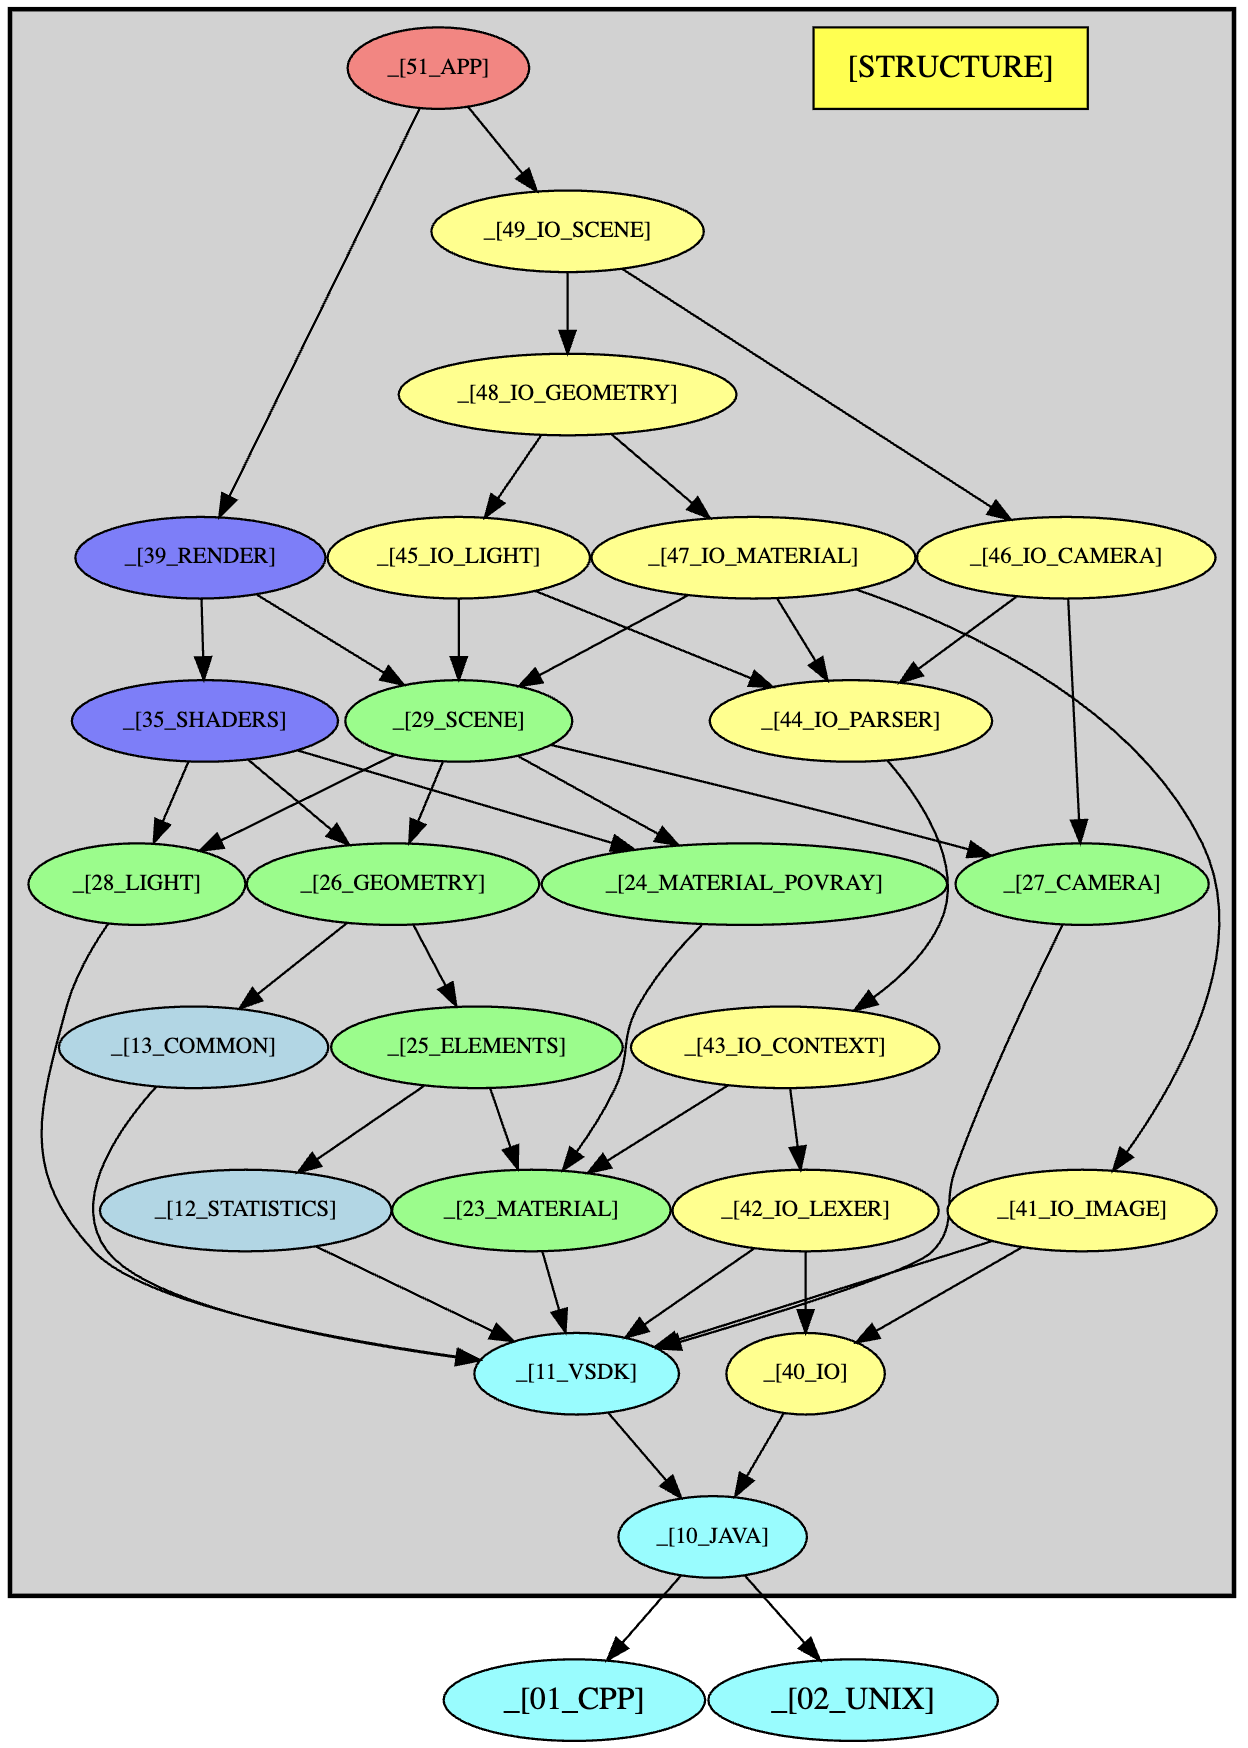
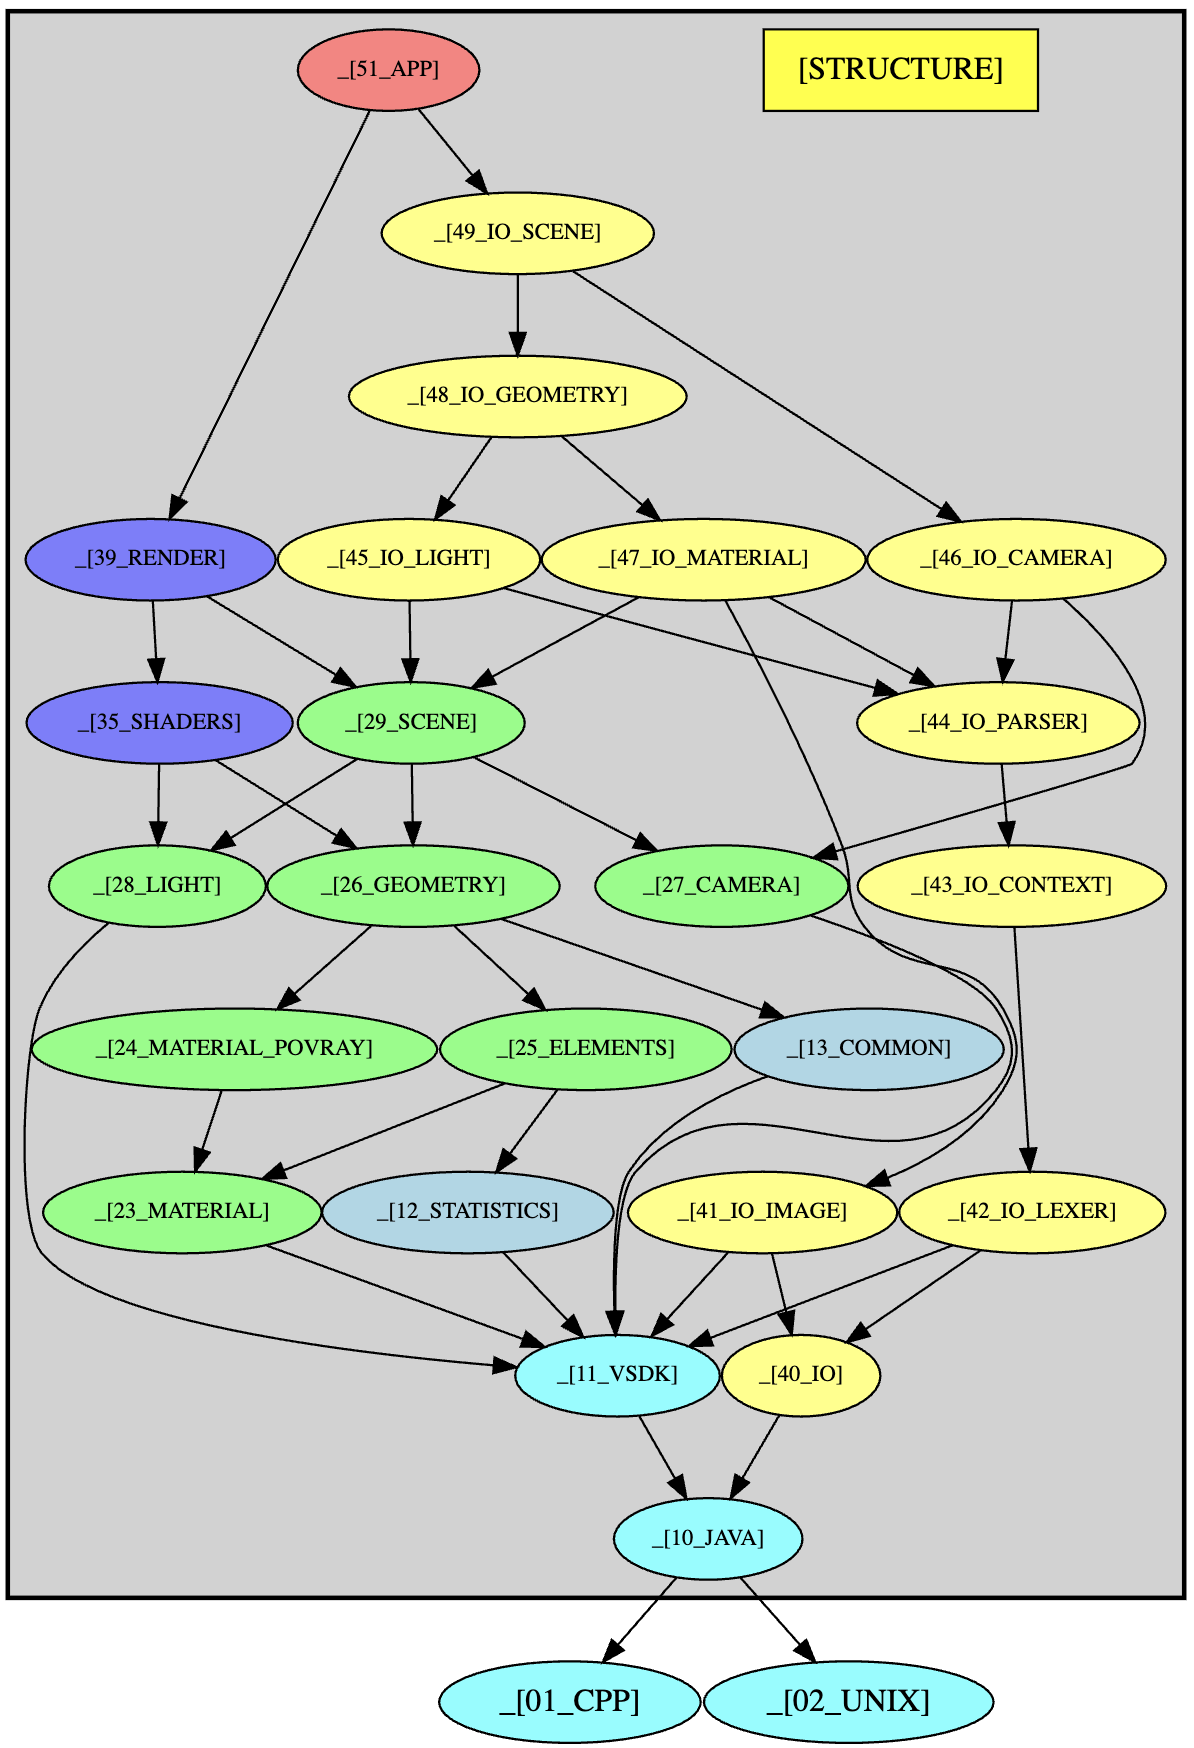
Parser context decoupled from scene elements

diff --git a/src/io/pov/context/ParserContext.h b/src/io/pov/context/ParserContext.h
@@ -9,7 +9,6 @@
 #include "io/pov/context/TokenizerStream.h"
 
 class PovrayMaterial;
-class RenderingConfiguration;
 class RenderRuntimeState;
 
 class ParserContext {
@@ -29,10 +28,18 @@ class ParserContext {
     PovrayMaterial *getDefaultTexture() const { return mDefaultTexture; }
     void setDefaultTexture(PovrayMaterial *texture) { mDefaultTexture = texture; }
 
-    const RenderingConfiguration *getReportingConfig() const { return mReportingConfig; }
-    void setReportingConfig(const RenderingConfiguration *config) { mReportingConfig = config; }
-    bool writesVerboseErrors() const;
-    const char *statFileName() const;
+    // Diagnostics needed by the error reporter, decoupled from the render-time
+    // RenderingConfiguration so io/pov/context does not depend on environment.
+    void setDiagnostics(bool verboseErrors, const char *statFileName) {
+        mVerboseErrors = verboseErrors;
+        mStatFileName = statFileName;
+    }
+    bool writesVerboseErrors() const { return mVerboseErrors; }
+    const char *statFileName() const { return mStatFileName; }
+
+    double getAntialiasThreshold() const { return mAntialiasThreshold; }
+    void setAntialiasThreshold(double threshold) { mAntialiasThreshold = threshold; }
+
     RenderRuntimeState *getRuntimeState() const { return mRuntimeState; }
     void setRuntimeState(RenderRuntimeState *runtimeState) { mRuntimeState = runtimeState; }
 
@@ -45,7 +52,9 @@ class ParserContext {
     SymbolTable * const mSymbols;
     int * const mDegenerateTriangles;
     PovrayMaterial *mDefaultTexture;
-    const RenderingConfiguration *mReportingConfig;
+    bool mVerboseErrors;
+    const char *mStatFileName;
+    double mAntialiasThreshold;
     RenderRuntimeState *mRuntimeState;
 };
 

diff --git a/src/io/pov/context/ParserContext.cpp b/src/io/pov/context/ParserContext.cpp
@@ -1,6 +1,5 @@
 #include "java/util/PriorityQueue.txx"
 
-#include "environment/material/RendererConfiguration.h"
 #include "io/pov/context/ParserContext.h"
 #include "io/pov/context/TokenizerStream.h"
 #include "io/pov/lexer/ITokenStream.h"
@@ -14,7 +13,9 @@ ParserContext::ParserContext()
       mSymbols(&mSharedSymbols),
       mDegenerateTriangles(&mSharedDegenerateTriangles),
       mDefaultTexture(nullptr),
-      mReportingConfig(nullptr),
+      mVerboseErrors(false),
+      mStatFileName(nullptr),
+      mAntialiasThreshold(0.3), // mirrors Scene::DEFAULT_ANTIALIAS_THRESHOLD
       mRuntimeState(nullptr)
 {
 }
@@ -65,17 +66,4 @@ void
 ParserContext::resetTokenStreamHistory()
 {
     // No-op: rewind/capture compatibility token stream removed from active pipeline.
-}
-
-bool
-ParserContext::writesVerboseErrors() const
-{
-    return mReportingConfig != nullptr &&
-        mReportingConfig->hasOptionFlags(RenderingConfiguration::VERBOSE_FILE);
-}
-
-const char *
-ParserContext::statFileName() const
-{
-    return mReportingConfig->getStatFileName();
 }

diff --git a/src/app/PovrayApplication.cpp b/src/app/PovrayApplication.cpp
@@ -215,7 +215,10 @@ PovrayApplication::parseSceneDescription()
         fclose(statFile);
     }
 
-    ctx.setReportingConfig(&configuration);
+    ctx.setDiagnostics(
+        configuration.hasOptionFlags(RenderingConfiguration::VERBOSE_FILE),
+        configuration.getStatFileName());
+    ctx.setAntialiasThreshold(configuration.getAntialiasThreshold());
     ctx.setRuntimeState(&runtimeState);
     SceneParser::parse(&engine.getScene(), ctx);
     ctx.tokenizer().terminateTokenizer();

diff --git a/src/environment/scene/Scene.cpp b/src/environment/scene/Scene.cpp
@@ -1,6 +1,5 @@
 #include "java/util/ArrayList.txx"
 
-#include "environment/material/RendererConfiguration.h"
 #include "environment/scene/Scene.h"
 
 namespace {
@@ -23,12 +22,12 @@ Scene::Scene() :
 }
 
 void
-Scene::resetForSceneParse(const RenderingConfiguration *config)
+Scene::resetForSceneParse(double antialiasThreshold)
 {
     viewPoint = Camera();
     lightSources = nullptr;
     Objects.clear();
     atmosphereIor = 1.0;
-    antialiasThreshold = config ? config->getAntialiasThreshold() : Scene::DEFAULT_ANTIALIAS_THRESHOLD;
+    this->antialiasThreshold = antialiasThreshold;
     setFog(blackFogColor(), 0.0);
 }

diff --git a/src/io/pov/scene/SceneParser.cpp b/src/io/pov/scene/SceneParser.cpp
@@ -3,7 +3,6 @@
 #include "java/util/ArrayList.txx"
 #include "java/util/PriorityQueue.txx"
 #include "environment/material/PovrayMaterialUtils.h"
-#include "environment/material/RendererConfiguration.h"
 #include "environment/scene/Scene.h"
 #include "io/pov/context/ParserContext.h"
 #include "io/pov/scene/SceneBodyParser.h"
@@ -73,7 +72,7 @@ void
 SceneParser::frameInit(Scene *framePtr, ParserContext &ctx)
 {
     ctx.setDefaultTexture(PovrayMaterialUtils::getTexture());
-    framePtr->resetForSceneParse(ctx.getReportingConfig());
+    framePtr->resetForSceneParse(ctx.getAntialiasThreshold());
 }
 
 void

diff --git a/src/environment/scene/Scene.h b/src/environment/scene/Scene.h
@@ -41,7 +41,7 @@ class Scene {
     {
         Objects = objects;
     }
-    void resetForSceneParse(const RenderingConfiguration *config = nullptr);
+    void resetForSceneParse(double antialiasThreshold = DEFAULT_ANTIALIAS_THRESHOLD);
 
   private:
     Camera viewPoint;

diff --git a/src/io/pov/geometry/HeightFieldParser.cpp b/src/io/pov/geometry/HeightFieldParser.cpp
@@ -5,7 +5,6 @@
 #include "vsdk/toolkit/media/RGBAImageHDRUncompressed.h"
 
 #include "environment/geometry/volume/HeightField.h"
-#include "environment/material/RendererConfiguration.h"
 #include "environment/scene/ModelBuilder.h"
 #include "environment/geometry/SimpleBody.h"
 

diff --git a/src/io/pov/material/TextureParser.cpp b/src/io/pov/material/TextureParser.cpp
@@ -7,7 +7,6 @@
 #include "vsdk/toolkit/media/solidTexture/from2d/ImageToSolidTextureProjectionMethods.h"
 #include "environment/geometry/element/Triangle.h"
 #include "environment/material/PovrayMaterialUtils.h"
-#include "environment/material/RendererConfiguration.h"
 #include "environment/material/SolidTextureBumpyNames.h"
 #include "environment/material/SolidTextureColorNames.h"
 #include "environment/scene/ModelBuilder.h"